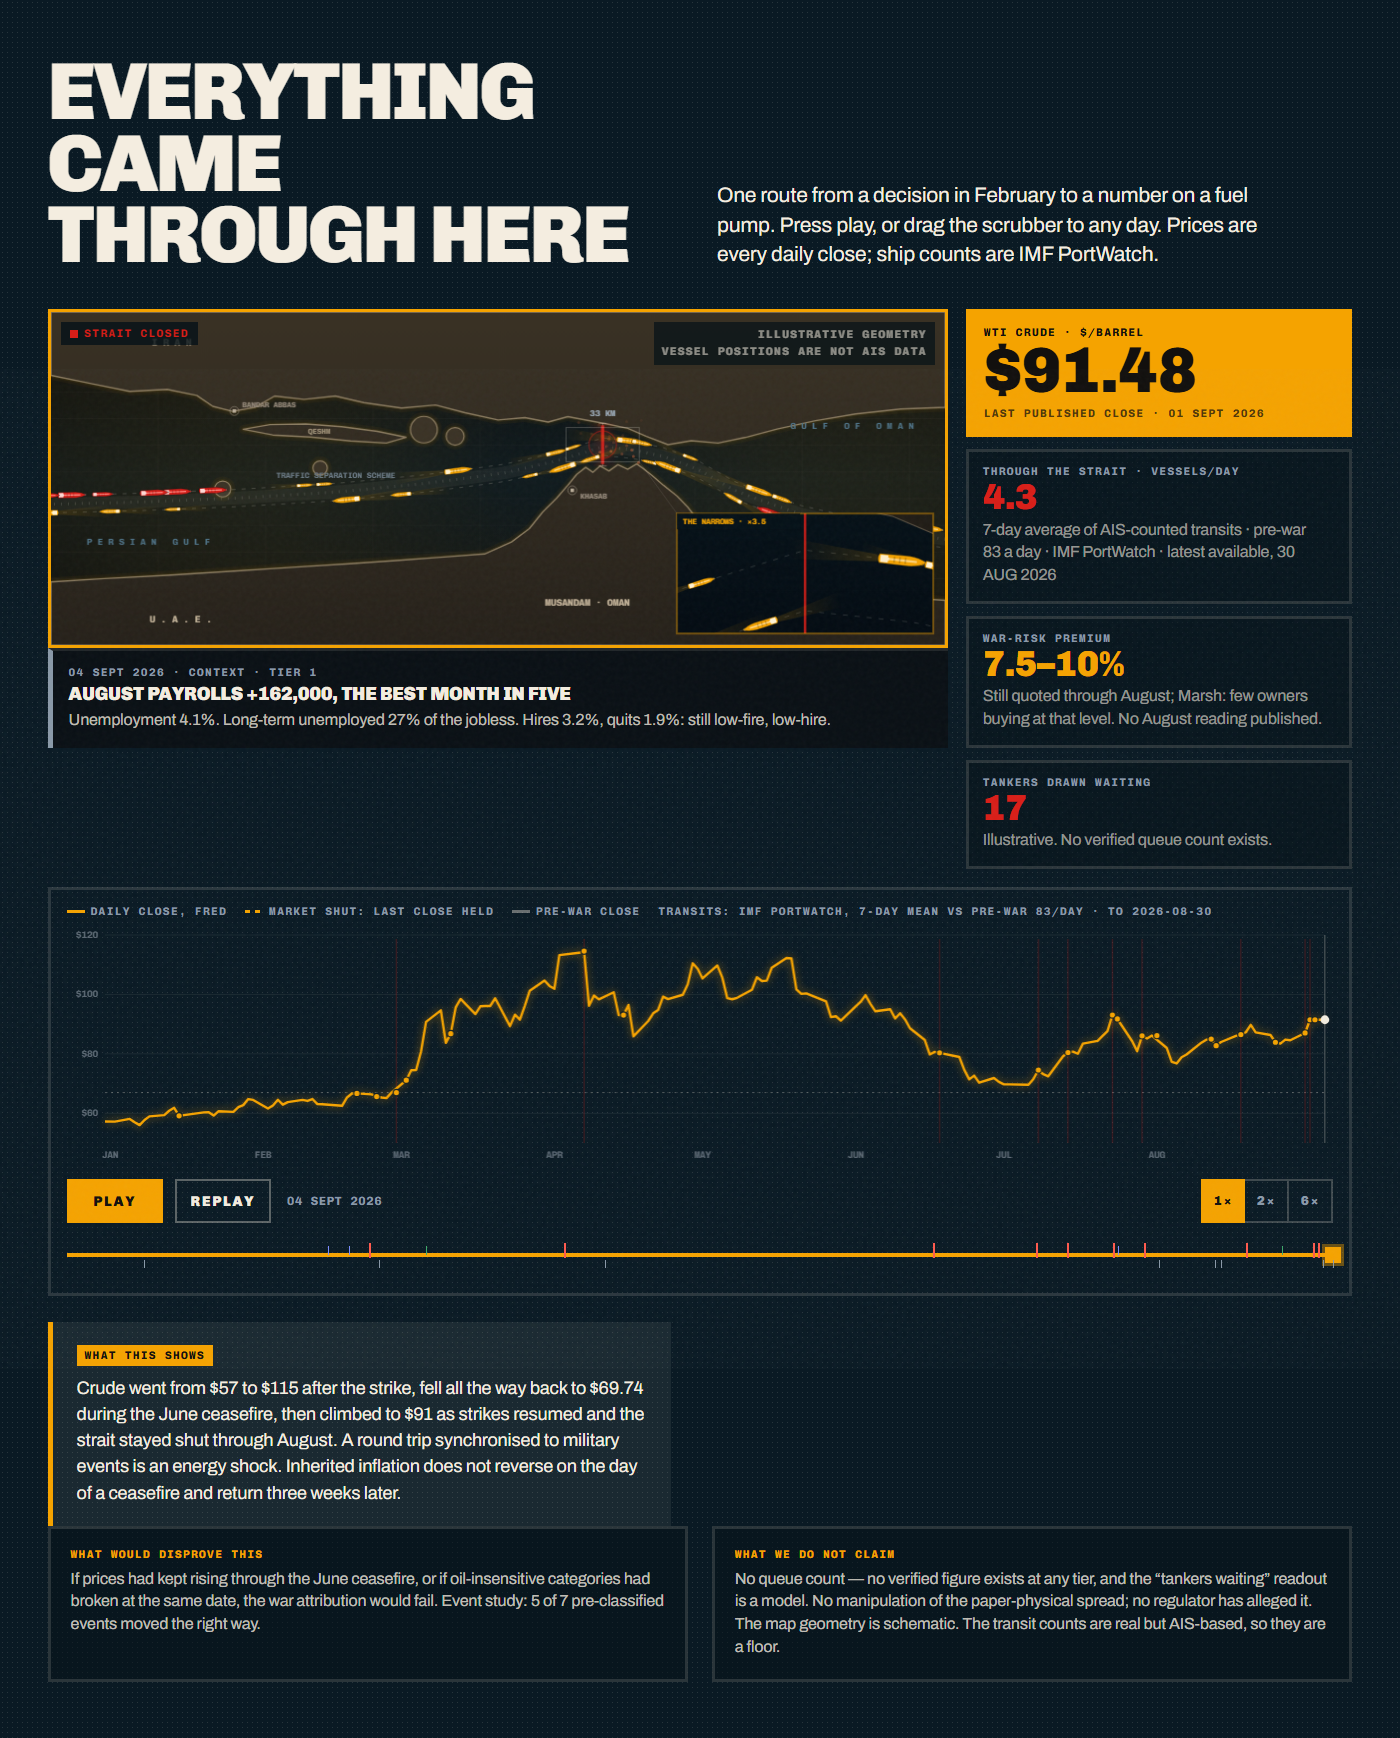
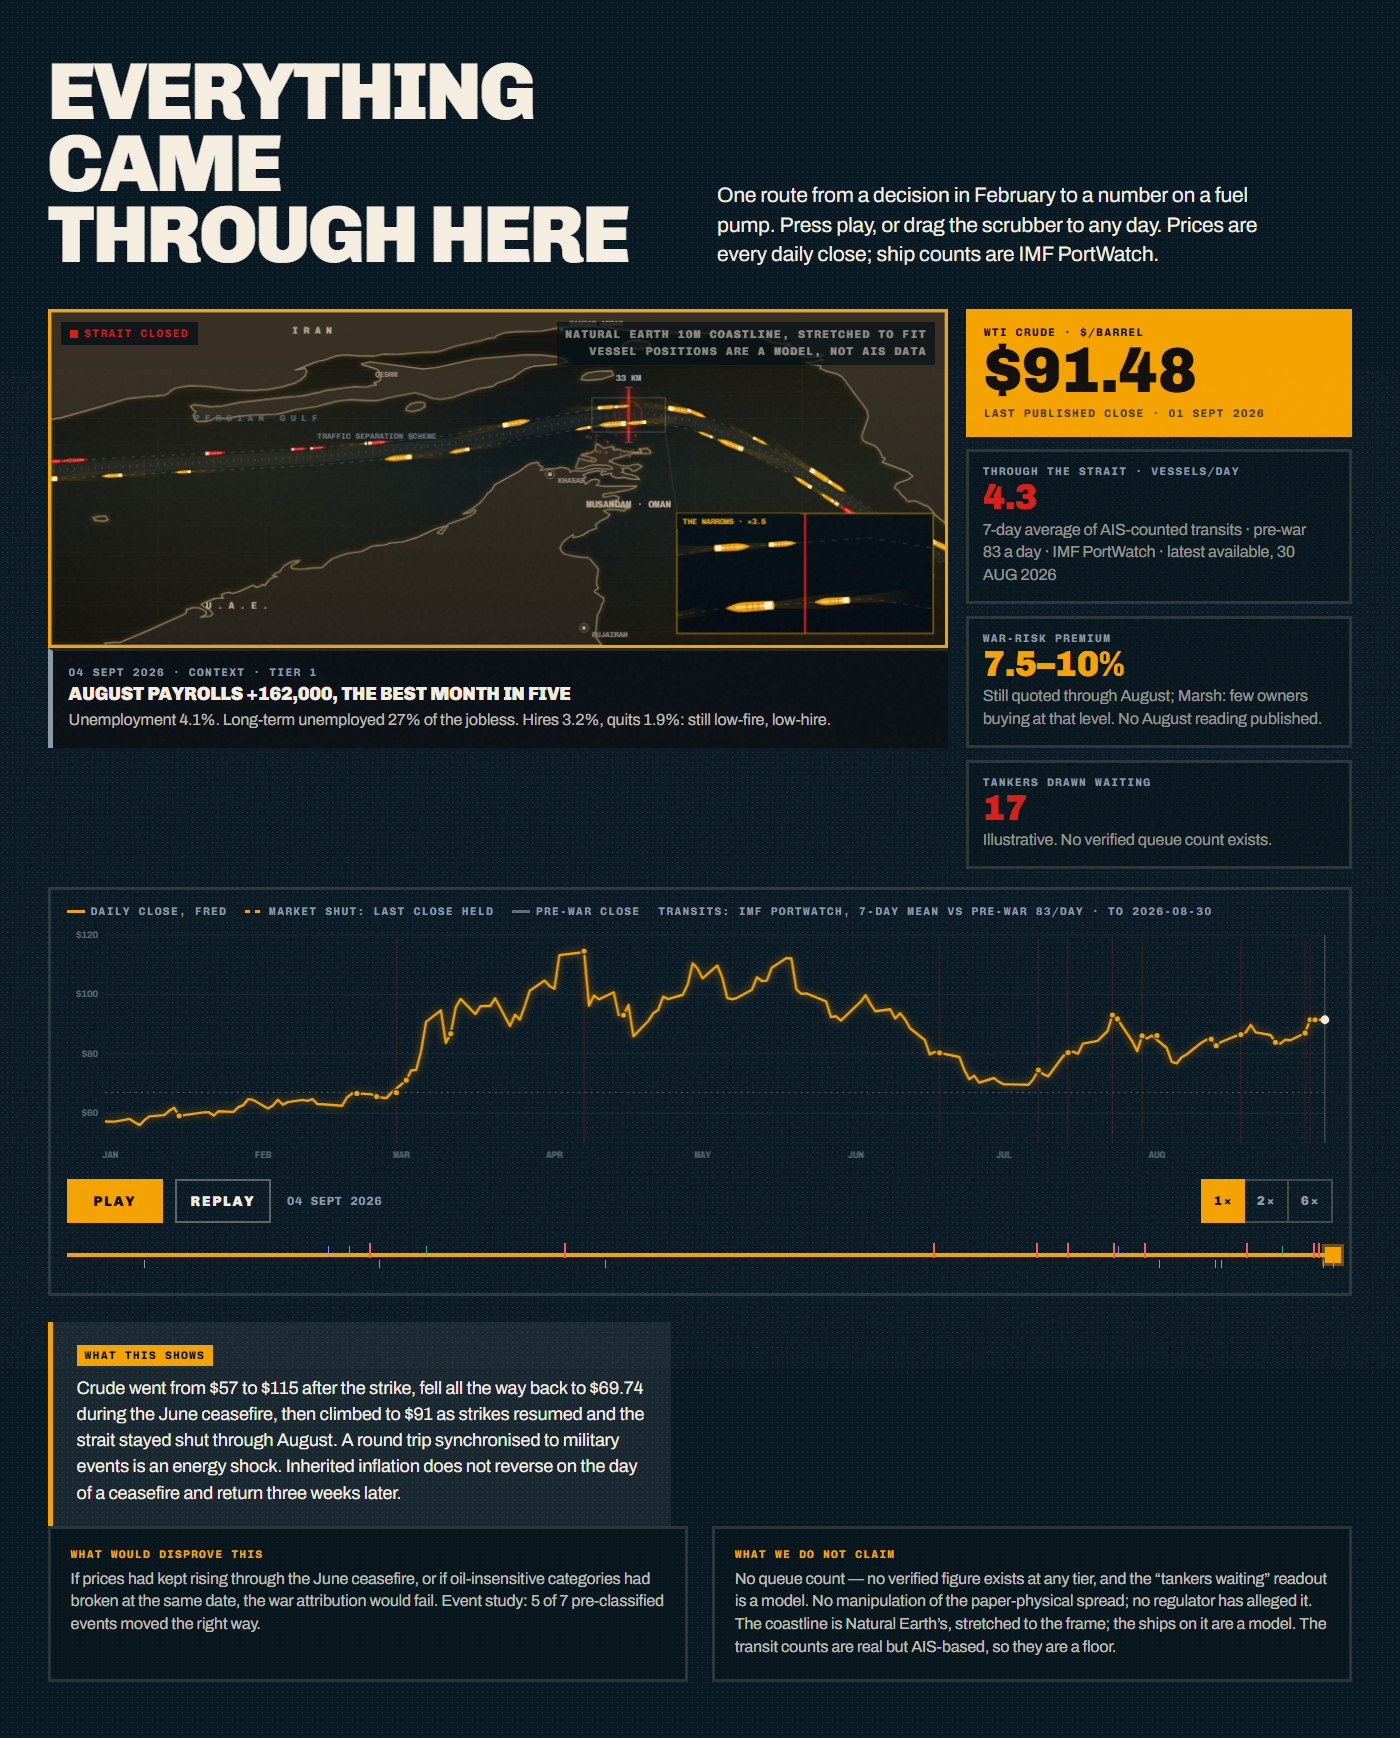
Strait: real Natural Earth coastline; war-cost chapter in the brief; handoff
- scripts/build-coast.mjs clips Natural Earth 10m land polygons to the strait,
  projects them to the engine's 0..1 space and writes coast.json with the gate,
  the Traffic Separation Scheme lane and ports on real coordinates. engine.js
  reads it; drawing maths and vessel model unchanged. The label now says
  'Natural Earth 10m coastline, stretched to fit / vessel positions are a model'.
- Design brief: the war-cost chapter spec and the inventory of new bound data.
- SESSION-HANDOFF addendum; CLAUDE.md pipeline notes; screenshots regenerated.

diff --git a/frontend/src/v4/hormuz/engine.js b/frontend/src/v4/hormuz/engine.js
@@ -2,9 +2,9 @@
    hormuz-engine.js — the Strait of Hormuz simulation, framework-free.
 
    THIS FILE IS THE IMPLEMENTATION, NOT A DESCRIPTION OF ONE.
-   Drop it in and call it. Do not rewrite the drawing maths, the coastline
-   arrays, the lane path or the queue logic — they are tuned, and re-deriving
-   them by eye is how the last port lost the design.
+   Drop it in and call it. Do not rewrite the drawing maths or the queue
+   logic — they are tuned. Coastline, lane and gate come from coast.json
+   (Natural Earth, built by scripts/build-coast.mjs); edit them there.
 
    It owns: both canvases, the rAF loop, the vessel simulation, the timeline.
    It does NOT own: any DOM text. It hands you a readout object and you render
@@ -175,20 +175,21 @@ export const EVENTS = [
 export const KIND_COLOR = { war: '#FF5A4E', tariff: '#7A8CFF', policy: '#3FA96A', context: '#8A99A8' };
 
 /* --------------------------------------------------------------- geography */
-/* Normalised 0..1 coordinates. Schematic — drawn to place the chokepoint
-   correctly, not surveyed. The "ILLUSTRATIVE GEOMETRY" label in the UI is what
-   makes that honest; do not remove the label without replacing these arrays
-   with real coastline data. */
-const IRAN = [[0,0],[0,.19],[.045,.215],[.088,.238],[.13,.232],[.163,.25],[.181,.283],[.203,.298],[.228,.286],[.25,.252],[.283,.262],[.318,.252],[.35,.272],[.392,.288],[.43,.279],[.463,.302],[.50,.324],[.53,.317],[.556,.33],[.578,.314],[.60,.325],[.622,.336],[.645,.349],[.666,.373],[.69,.398],[.716,.386],[.746,.393],[.777,.376],[.812,.351],[.855,.326],[.90,.306],[.95,.291],[1,.286],[1,0]];
-const OMAN = [[0,1],[0,.81],[.06,.80],[.13,.79],[.20,.778],[.27,.766],[.33,.756],[.39,.745],[.44,.735],[.485,.726],[.515,.69],[.535,.65],[.55,.60],[.565,.56],[.578,.52],[.588,.487],[.598,.466],[.606,.481],[.614,.462],[.624,.477],[.634,.458],[.645,.472],[.655,.456],[.662,.469],[.672,.49],[.685,.52],[.70,.552],[.712,.585],[.728,.64],[.745,.70],[.775,.75],[.82,.79],[.87,.822],[.92,.845],[.96,.858],[1,.865],[1,1]];
-const QESHM = [[.215,.352],[.245,.338],[.285,.336],[.325,.344],[.365,.358],[.397,.376],[.375,.393],[.335,.387],[.29,.375],[.248,.369]];
-const ISLES = [[.417,.353,.015,'HORMUZ'],[.452,.373,.010,'LARAK'],[.301,.468,.008,''],[.192,.531,.009,'']];
-const PORTS = [[.205,.297,'BANDAR ABBAS',1],[.583,.535,'KHASAB',-1],[.752,.688,'FUJAIRAH',-1]];
-/* The shipping lane. Vessels ride ±0.026 off centre — the real Traffic
-   Separation Scheme: outbound one side, inbound the other. */
-const LANE = [[-.02,.578],[.10,.570],[.21,.558],[.32,.540],[.42,.514],[.505,.484],[.567,.446],[.617,.404],[.652,.414],[.686,.434],[.722,.470],[.768,.540],[.836,.605],[.912,.652],[1.02,.688]];
+/* Natural Earth 1:10m land polygons, clipped to a box around the strait and
+   projected to 0..1 by scripts/build-coast.mjs. The box is stretched to the
+   canvas, so shapes are real and the aspect is not; the UI label says exactly
+   that. The Traffic Separation Scheme lane and the gate are placed on real
+   coordinates in the same projection. Vessel positions are still a model. */
+import COAST from './coast.json';
+const RINGS = COAST.rings;
+const ISLES = [];   // islands arrive as polygons now
+const PORTS = COAST.ports.map(p => [p.x, p.y, p.name, p.dir]);
+const LABELS = COAST.labels;
+/* Vessels ride ±0.026 off centre — the real Traffic Separation Scheme:
+   outbound one side, inbound the other. */
+const LANE = COAST.lane;
 
-const GATE_X = 0.617, GATE_TOP = 0.334, GATE_BOT = 0.462;
+const GATE_X = COAST.gate.x, GATE_TOP = COAST.gate.top, GATE_BOT = COAST.gate.bot;
 
 /* ----------------------------------------------------------------- helpers */
 export function lerpKF(arr, day) {
@@ -645,7 +646,7 @@ export class HormuzEngine {
     for (let y = 0.08; y < 1; y += 0.08) { ctx.beginPath(); ctx.moveTo(0, y * h); ctx.lineTo(w, y * h); ctx.stroke(); }
     for (let x = 0.12; x < 1; x += 0.12) { ctx.beginPath(); ctx.moveTo(x * w, 0); ctx.lineTo(x * w, h); ctx.stroke(); }
 
-    const shapes = [IRAN, OMAN, QESHM];
+    const shapes = RINGS;
     [[9, 'rgba(245,163,0,.045)'], [4, 'rgba(245,163,0,.07)']].forEach(([lw, col]) => {
       ctx.lineWidth = lw; ctx.strokeStyle = col; ctx.lineJoin = 'round';
       shapes.forEach(s => { this.poly(ctx, s, w, h); ctx.stroke(); });
@@ -699,16 +700,14 @@ export class HormuzEngine {
     }
 
     ctx.textAlign = 'center';
-    ctx.font = '700 9.5px "Chivo Mono", monospace'; ctx.fillStyle = '#C4B49A';
-    ctx.fillText('I R A N', 0.135 * w, 0.10 * h);
-    ctx.fillText('U . A . E .', 0.145 * w, 0.93 * h);
-    ctx.fillText('MUSANDAM \u00B7 OMAN', 0.60 * w, 0.88 * h);
-    if (w > 460) { ctx.font = '700 7.5px "Chivo Mono", monospace'; ctx.fillStyle = '#9C8E76'; ctx.fillText('QESHM', 0.30 * w, 0.366 * h); }
-    ctx.font = '600 9px "Chivo Mono", monospace';
-    ctx.fillStyle = '#4E7286'; ctx.textAlign = 'left';
-    ctx.fillText('P E R S I A N   G U L F', 0.04 * w, 0.70 * h);
-    ctx.textAlign = 'right';
-    ctx.fillText('G U L F   O F   O M A N', 0.965 * w, 0.35 * h);
+    for (const l of LABELS) {
+      const sea = l.text.indexOf('G U L F') >= 0;
+      if (l.text === 'QESHM' && w <= 460) continue;
+      ctx.font = sea ? '600 9px "Chivo Mono", monospace'
+        : l.text === 'QESHM' ? '700 7.5px "Chivo Mono", monospace' : '700 9.5px "Chivo Mono", monospace';
+      ctx.fillStyle = sea ? '#4E7286' : l.text === 'QESHM' ? '#9C8E76' : '#C4B49A';
+      ctx.fillText(l.text, l.x * w, l.y * h);
+    }
 
     if (w > 460) {
       PORTS.forEach(([x, y, name, dir]) => {
@@ -774,7 +773,7 @@ export class HormuzEngine {
   }
 
   paintInset(ctx, w, h, ff, base) {
-    const Z = 3.5, cx = GATE_X, cy = 0.398;
+    const Z = 3.5, cx = GATE_X, cy = (GATE_TOP + GATE_BOT) / 2;
     const iw = Math.min(258, w * 0.44), ih = Math.min(126, h * 0.36);
     const ix = w - 12 - iw, iy = h - 12 - ih;
     const vw = iw / (w * Z), vh = ih / (h * Z);
@@ -793,7 +792,7 @@ export class HormuzEngine {
     const IX = nx => ix + iw / 2 + (nx - cx) * w * Z;
     const IY = ny => iy + ih / 2 + (ny - cy) * h * Z;
 
-    [IRAN, OMAN].forEach(pts => {
+    RINGS.forEach(pts => {
       ctx.beginPath();
       pts.forEach((p, i) => { i ? ctx.lineTo(IX(p[0]), IY(p[1])) : ctx.moveTo(IX(p[0]), IY(p[1])); });
       ctx.closePath();
@@ -802,19 +801,19 @@ export class HormuzEngine {
     });
     [-0.026, 0.026].forEach(off => {
       ctx.beginPath();
-      for (let s = 0.36; s <= 0.66; s += 0.01) {
+      for (let s = 0.30; s <= 0.72; s += 0.01) {
         const p = this.lanePt(s, off);
-        s === 0.36 ? ctx.moveTo(IX(p.x), IY(p.y)) : ctx.lineTo(IX(p.x), IY(p.y));
+        s === 0.30 ? ctx.moveTo(IX(p.x), IY(p.y)) : ctx.lineTo(IX(p.x), IY(p.y));
       }
       ctx.strokeStyle = 'rgba(244,237,224,.16)'; ctx.setLineDash([5, 7]); ctx.lineWidth = 1; ctx.stroke(); ctx.setLineDash([]);
     });
     if (ff < 0.97) {
       const pulse = 0.6 + 0.4 * Math.sin(performance.now() / 380);
       ctx.strokeStyle = 'rgba(217,30,24,' + (0.35 + 0.5 * pulse).toFixed(3) + ')'; ctx.lineWidth = 2.6;
-      ctx.beginPath(); ctx.moveTo(IX(GATE_X), IY(0.336)); ctx.lineTo(IX(GATE_X), IY(0.460)); ctx.stroke();
+      ctx.beginPath(); ctx.moveTo(IX(GATE_X), IY(GATE_TOP)); ctx.lineTo(IX(GATE_X), IY(GATE_BOT)); ctx.stroke();
     }
     for (const v of this.vessels) {
-      if (v.s < 0.34 || v.s > 0.68) continue;
+      if (v.s < 0.28 || v.s > 0.74) continue;
       const p = this.lanePt(v.s, v.dir > 0 ? -0.026 : 0.026);
       const x = IX(p.x), y = IY(p.y);
       if (x < ix - 40 || x > ix + iw + 40 || y < iy - 40 || y > iy + ih + 40) continue;

diff --git a/frontend/src/v4/HormuzSimulation.tsx b/frontend/src/v4/HormuzSimulation.tsx
@@ -201,13 +201,13 @@ export default function HormuzSimulation() {
         <div className="hz-mappanel">
           <div className="hz-mapwrap" ref={mapWrap}>
             <canvas ref={mapCanvas} className="hz-canvas" role="img"
-              aria-label="Strait of Hormuz with modelled tanker traffic. Geometry is illustrative and vessel positions are not AIS data." />
+              aria-label="Strait of Hormuz with modelled tanker traffic. Coastline from Natural Earth; vessel positions are a model, not AIS data." />
             <div className="hz-state">
               <span className="hz-dot" ref={r.statusDot} data-pulse="0" aria-hidden />
               <span className="t-label" ref={r.status}>TRANSIT NORMAL</span>
             </div>
             <div className="hz-illus t-label">
-              Illustrative geometry<br />Vessel positions are not AIS data
+              Natural Earth 10m coastline, stretched to fit<br />Vessel positions are a model, not AIS data
             </div>
           </div>
 

diff --git a/frontend/src/pages/LedgerPage.tsx b/frontend/src/pages/LedgerPage.tsx
@@ -1031,8 +1031,9 @@ function Strait({ f }: { f: Figures }) {
           <span className="t-label">What we do not claim</span>
           <p className="t-small">
             No queue count — no verified figure exists at any tier, and the &ldquo;tankers waiting&rdquo; readout
-            is a model. No manipulation of the paper-physical spread; no regulator has alleged it. The map
-            geometry is schematic. The transit counts are real but AIS-based, so they are a floor.
+            is a model. No manipulation of the paper-physical spread; no regulator has alleged it. The coastline
+            is Natural Earth&rsquo;s, stretched to the frame; the ships on it are a model. The transit counts are
+            real but AIS-based, so they are a floor.
           </p>
         </div>
       </div>

diff --git a/docs/design-briefs/2026-09-05-v5-the-bill.md b/docs/design-briefs/2026-09-05-v5-the-bill.md
@@ -256,6 +256,48 @@ as a caption.
   the ounce count above. Design decides the typographic device; a two-column layout that
   collapses badly on mobile is not it.
 
+### New · What the war cost America (chapter, between "What he did to your money" and "The world routed around America")
+
+One sober chapter, not a litany. Every figure is in `context.war_cost` with source, URL and
+tier; the official denial sits beside the documented estimate wherever one exists; no
+adjectives; the word "cover-up" does not appear. The rail line is the DoD dollar figure.
+Casualties are never a rail item.
+
+| Element | Value (bound) | Source (tier) |
+|---|---|---|
+| **Dollars** | `{war_cost.dod_cost.usd_bn}` = $37.5bn to 21 Jul; $29bn on 12 May | Hegseth to Senate Appropriations; Comptroller Hurst (1) |
+| Supplemental | `{war_cost.supplemental_request.usd_bn}` = $67.1bn, of which $21bn munitions | DoD request; CSIS (1) |
+| **Lives** | `{war_cost.casualties.us_killed}` = 18 US service members killed, hundreds injured | NBC data desk 28 Aug (2) |
+| **Airframes** | 42 lost or damaged to 13 May, DoD estimate $2.6bn: 4 F-15E · 1 F-35A · 1 A-10 · 7 KC-135 · 1 E-3 · 2 MC-130J · 1 HH-60W · 24 MQ-9 · 1 MQ-4C | CRS IN12692 (1) |
+| **Bases** | Bahrain logistics hub struck day one; ≥228 structures damaged; resupply from Diego Garcia, 2,200 miles; Lincoln ~9 months without a port call | WaPo; Stars and Stripes; Defense News (2) |
+| **Munitions** | ~⅓ of Patriot interceptors left (CSIS, 27 Jul); ~80% of THAAD used (CNN). *Beside it:* Hegseth disputes (5 Aug); the $21bn munitions line in the supplemental | CSIS; CNN; Stars and Stripes (2) |
+| **Information** | Planet Labs suspended Middle East imagery indefinitely on 5 Apr "following a direct request from the United States government" | CBS; WaPo; NPR (2) |
+| The quote | "four to five weeks" — the President, 28 Feb | NBC (2) |
+
+Design asks: a chapter number that is not a dollar figure (suggest the airframe count, or 18),
+with the dollar figures in the body; the aircraft as a typographic tally by type, not
+silhouettes; the estimate-and-denial pairs as a two-line device ("CSIS: … / Hegseth: …") in
+slate blue; the Planet Labs line as a single sentence with its date. Nothing in this chapter
+is red except the 28 February date.
+
+### New · Data that now exists for V5 (all in the snapshot, all bound-able)
+
+- `eia`: SPR stock (286.6M bbl, lowest since 1983), refinery utilisation (98%), US crude
+  exports (4.5 mb/d), weekly gasoline for 29 areas, diesel by PADD, electricity by state.
+- `fiscal`: debt to the penny ($40.10tn, live in the browser), customs duties NET of refunds
+  by month (negative May–July 2026), interest expense ($1.27tn FYTD).
+- `chain`: the barrel chain with pre-war elasticities — crude→diesel 0.38, diesel→truck PPI
+  0.13, truck PPI→food at home 0.42 (four-month lag), crude→jet 0.65, jet→fares 0.18, EU
+  gas→fertiliser 0.30 (two-month lag). Chapter 07's flow should be drawn from this block.
+- `chokepoints`: Hormuz 5% of baseline against Suez 111% and the Cape 103% — where the
+  ships went. `nowcast`: Cleveland Fed's next-print estimate (Aug CPI 3.38%). `polymarket`:
+  six curated crowd odds (Fed hike ~50%; blockade ends by 30 Sep 17.5%), labelled as odds.
+- `receipt_inputs`: the browser recomputes the household receipt with a **state picker**
+  (EIA regional gasoline and state electricity), miles slider and household size. The rail's
+  running total is this number. No geolocation.
+- The strait map now uses the real Natural Earth coastline; the label reads "stretched to
+  fit · vessel positions are a model".
+
 ### 11 · The bill — end card and OG card as one component
 
 Eight bound numbers: `+{receipt.monthly}/mo` · `{receipt.cumulative} since 20 Jan 2025` ·

diff --git a/docs/SESSION-HANDOFF.md b/docs/SESSION-HANDOFF.md
@@ -100,3 +100,30 @@ HormuzSimulation and scoped `no-explicit-any` disables on the snapshot consumers
 - The insider-trading probe never shares a visual frame with the paper-physical spread.
 - `docs/THESIS.md` governs every claim on the page. Read it before writing copy.
 - Do NOT use git worktrees in this OneDrive folder.
+
+## Addendum — later on 2026-09-05: the data pipeline for V5 is built
+
+Plan file: `~/.claude/plans/while-ddesign-is-working-encapsulated-sundae.md` (approved).
+Shipped in commit "Schema v2 snapshot": `services/eia.py`, `fiscal.py`, `chain.py`,
+`nowcast.py`, `odds.py`, multi-chokepoint `portwatch.py`, `attribution.passthrough_pair` +
+`receipt_lines`/`receipt_inputs`, `scripts/validate_snapshot.py`, the GitHub Actions
+workflow, `frontend/src/v4/receipt.ts` (+ vitest pin) and `live.ts`. Snapshot is schema v2,
+20 blocks, 0.72 MB. 41 backend tests, 7 frontend tests.
+
+**User must add four repo secrets** before the workflow can run: FRED_API_KEY, EIA_API_KEY,
+CLOUDFLARE_API_TOKEN (Pages: Edit), CLOUDFLARE_ACCOUNT_ID = c82dd5addf7f4ebc0260ae476166b8d1.
+Then trigger it once from the Actions tab (workflow_dispatch) and check a commit lands.
+
+**Headline findings from the new data** (all in THESIS.md update II): MTS customs receipts
+were NEGATIVE in May, June and July 2026 (refunds > collections); interest expense $1.27tn
+FYTD; debt $40.10tn; SPR 286.6M bbl; refinery utilisation 98%; every link of the barrel
+chain is significant on pre-war data, with a ~4-month lag from freight to the shelf and
+~2 months from EU gas to fertiliser; Hormuz 5% of baseline vs Suez 111%, Cape 103%.
+
+**Not yet wired into the V4 page** (deliberately — V5 will consume them): `eia`, `fiscal`
+(except the live debt patch), `chain`, `chokepoints`, `nowcast`, `polymarket`, the
+receipt picker UI. `deriveFigures` passes them through as `fig.eia`, `fig.chain`, etc.
+
+**In progress:** real Natural Earth coastline for the strait (`scripts/build-coast.mjs` ->
+`src/v4/hormuz/coast.json`; engine to read it). If that is unfinished, the schematic arrays
+still work and the label still says illustrative.
